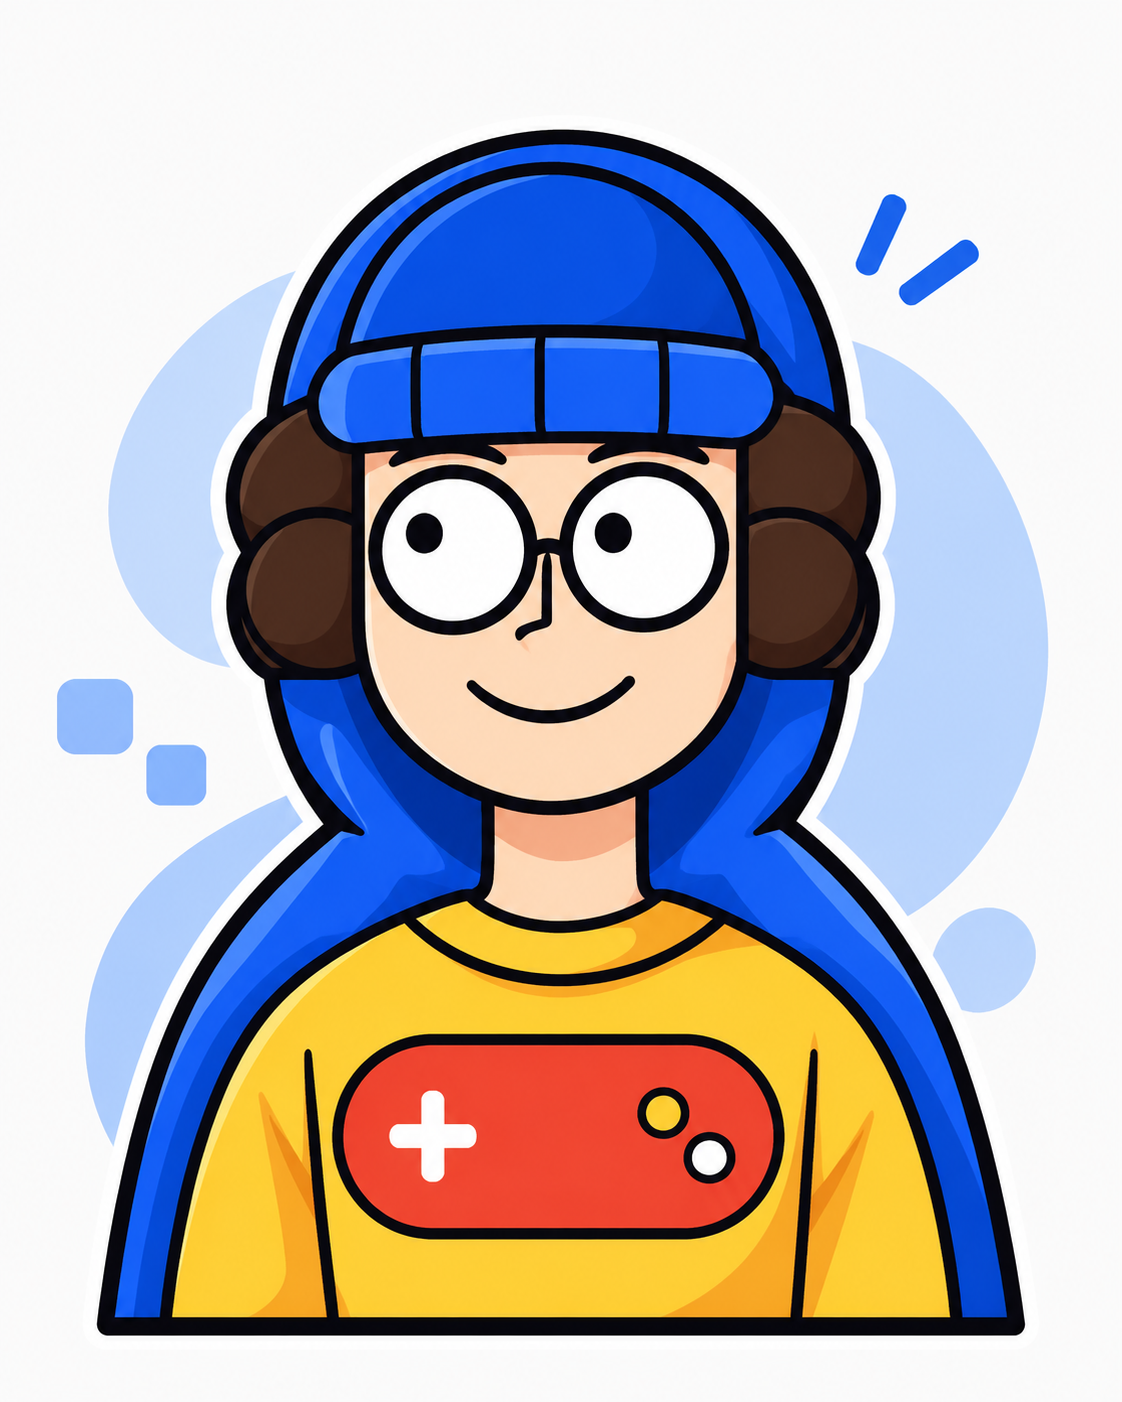
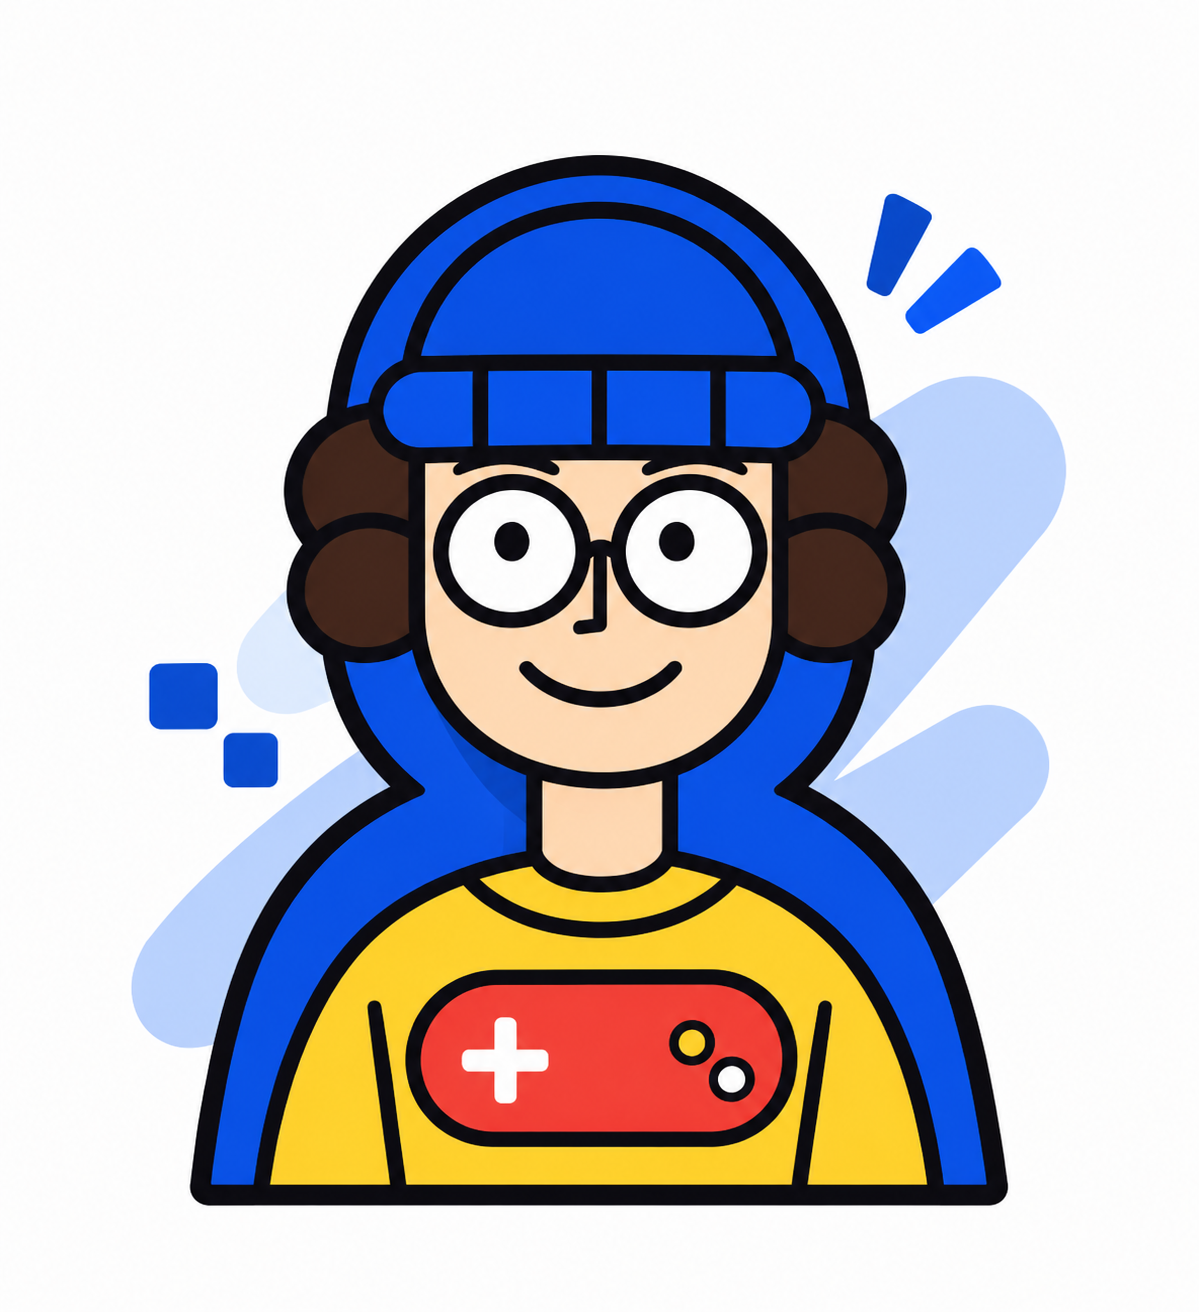
feat(ui): update section heading to dibuat karena gabut nampung ide dimana

diff --git a/resources/views/welcome.blade.php b/resources/views/welcome.blade.php
@@ -186,7 +186,7 @@
                         </h1>
 
                         <p class="mt-5 text-base sm:text-lg font-semibold text-slate-700 max-w-md mx-auto lg:mx-0 leading-relaxed">
-                            Kumpulan mini-game web ringan penuh warna yang siap bikin hari-harimu makin asyik—langsung main di browser tanpa ribet!
+                            Tempat untuk mengumpulkan, menyimpan, dan menjelajahi berbagai ide game yang ingin dimainkan. Temukan inspirasi baru, dan wujudkan keseruan bermain dalam satu tempat!
                         </p>
 
                         <!-- Tombol Merah PILIH GAME -> & Link TENTANG KAMI -->
@@ -296,7 +296,7 @@
                         <!-- Label Stiker Kuning "KOPI + GAME = MANTAP" -->
                         <div class="bg-sunny border-[2.5px] border-ink px-4 py-2 rounded-xl shadow-[4px_4px_0px_#111111] rotate-2 -mt-4 z-10">
                             <p class="font-doodle font-bold text-base sm:text-lg text-ink leading-tight flex items-center gap-1.5">
-                                KOPI + GAME = MANTAP ☕🎮
+                                P Ice Breaking!
                             </p>
                         </div>
                     </div>
@@ -304,13 +304,13 @@
                     <!-- Tengah: HALO, GAMERS! & Deskripsi Portal -->
                     <div class="lg:col-span-5 text-white space-y-4 text-center lg:text-left">
                         <h2 class="font-comic text-3xl sm:text-4xl lg:text-5xl tracking-wide text-white">
-                            HALO, <span class="text-sunny">GAMERS!</span>
+                            HALO, <span class="text-sunny">SOBAT!</span>
                         </h2>
                         <p class="text-blue-50 text-sm sm:text-base leading-relaxed font-medium">
-                            <strong>MainYuk</strong> adalah markas digital buat kamu yang butuh hiburan kilat di sela-sela kesibukan. Semua game di sini dirancang ringan, penuh warna, dan bisa langsung dimainkan tanpa perlu install aplikasi apa pun.
+                            <strong>MainYuk</strong> Tempat kumpulan game dan ice breaking seru untuk menemani sela-sela kesibukan belajar. Dirancang untuk mencairkan suasana, membangun keakraban, dan menghadirkan keseruan di tengah kegiatan belajar maupun aktivitas bersama.
                         </p>
                         <p class="text-blue-100 text-sm sm:text-base leading-relaxed">
-                            Kami percaya game terbaik adalah yang bikin kamu senyum, tertantang, dan gampang diajak mabar bareng teman!
+                            Kami percaya game terbaik adalah yang bikin kamu senyum, tertantang, dan gampang diajak maen bareng teman!
                         </p>
                         <div class="pt-2 flex items-center justify-center lg:justify-start gap-4">
                             <a href="#koleksi" class="sticker-btn bg-white text-ink font-extrabold text-xs sm:text-sm px-6 py-3 rounded-full tracking-wide">
@@ -323,11 +323,11 @@
                         </div>
                     </div>
 
-                    <!-- Kanan: Kartu Notepad Kertas Bergaris Miring "KENAPA MAIN DI SINI?" -->
+                    <!-- Kanan: Kartu Notepad Kertas Bergaris Miring -->
                     <div class="lg:col-span-4">
                         <div class="lined-paper border-[3px] border-ink rounded-2xl p-6 shadow-[6px_6px_0px_#111111] rotate-1 hover:rotate-0 transition-transform relative">
                             <h3 class="font-comic text-xl sm:text-2xl text-ink mb-4 tracking-wide">
-                                KENAPA MAIN DI SINI?
+                                DIBUAT KARENA GABUT NAMPUNG IDE DIMANA 🙂
                             </h3>
 
                             <ul class="space-y-3 font-doodle text-lg sm:text-xl text-ink font-bold">
